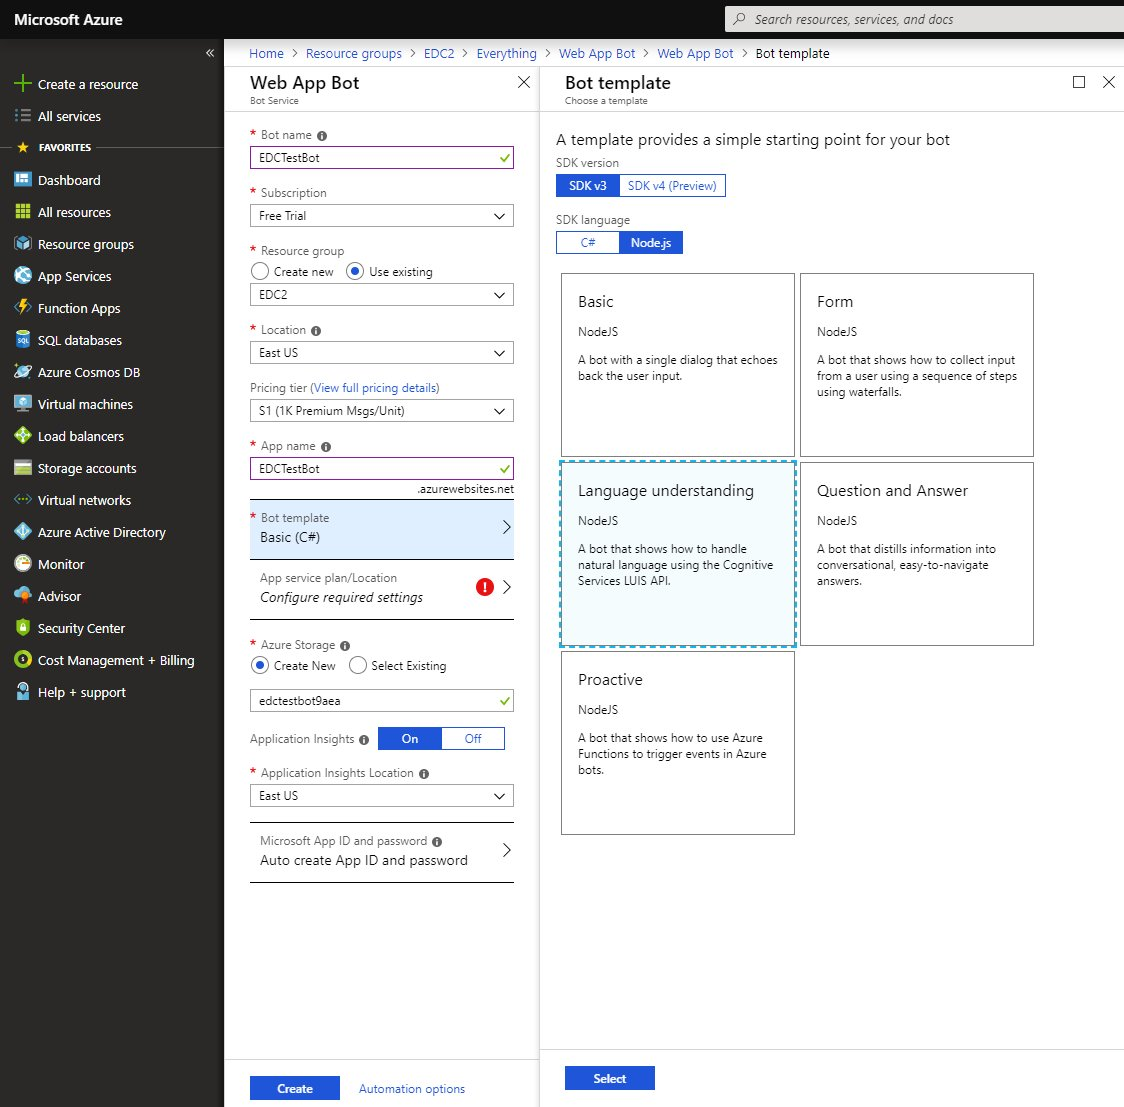
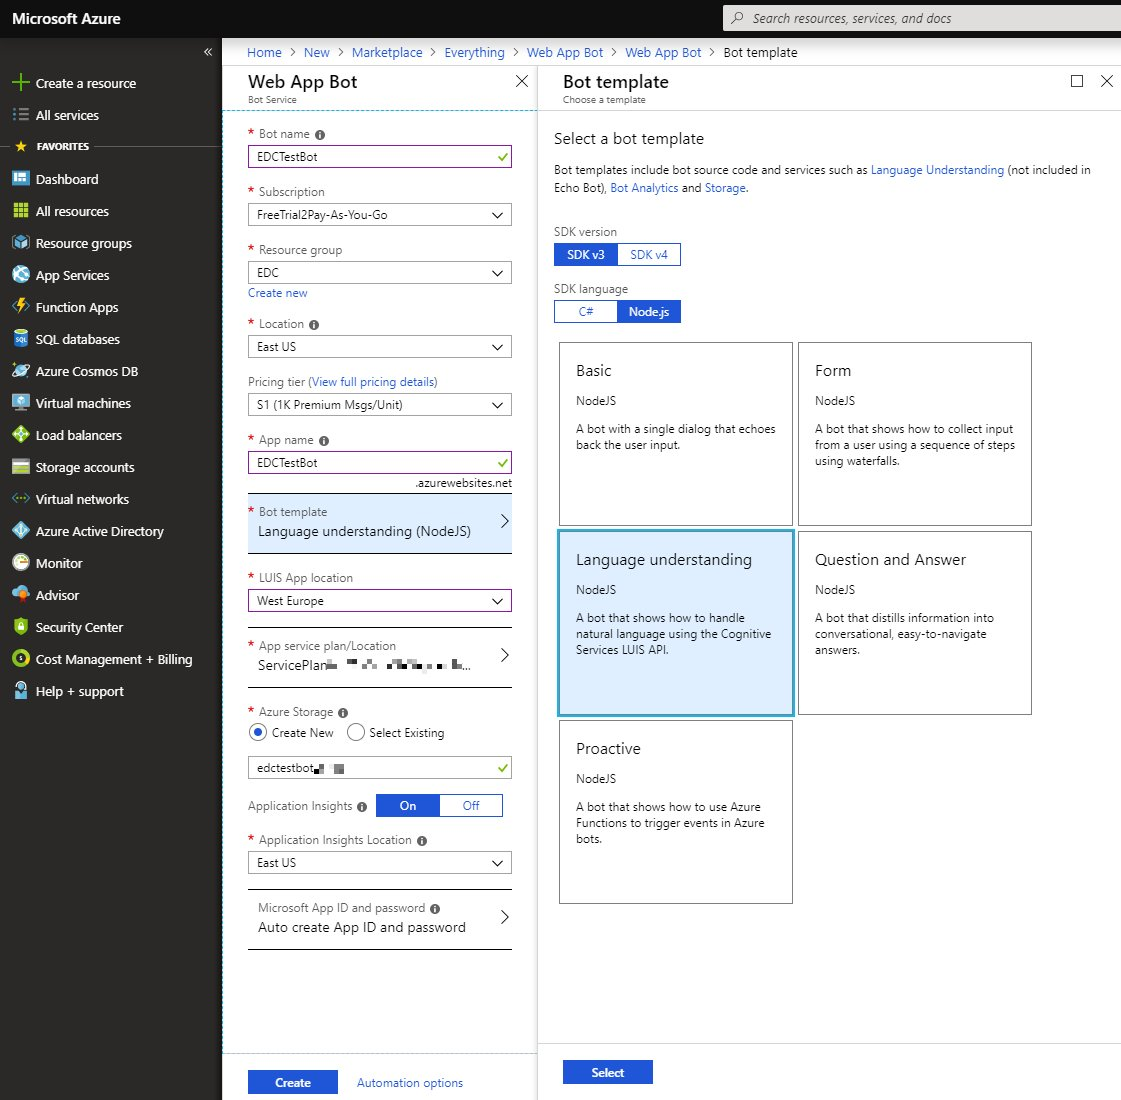
Added clarifications

diff --git a/HOL/HOL8/README.md b/HOL/HOL8/README.md
@@ -43,7 +43,7 @@ In this lab, you will learn how to create an Azure bot, make it available in Tea
 
     ![image](./media/2018-09-19-13-12-00.jpg)
 
-1. Select the `Web App Bot` from the results.
+1. Select the `Web App Bot` from the results and click `Create`.
 
 1. In the `Bot Service blade`, provide the required information, and click `Create`. This creates and deploys the bot service and LUIS app to Azure.
 
@@ -51,7 +51,7 @@ In this lab, you will learn how to create an Azure bot, make it available in Tea
 
     1. Select the `subscription`, `resource group`, `App service plan`, and `location`.
 
-    1. Select the `Language understanding (Node.js)` template for the `Bot template` field.
+    1. Select the `Language understanding (Node.js)` template for the `Bot template` field by switching to `SDK v3` and `Node.js` on the selection tab.
 
     1. Note that Azure will automatically create a storage and an App ID for your bot.
 
@@ -85,7 +85,7 @@ Your bot is now running and can recognize some basic intents. Please note that d
 
 ## Exercise 3: Modify the LUIS app<a name="ex3"></a>
 
-1. Log in to [www.luis.ai/applications](https://www.luis.ai/applications) using the same account you use to log in to Azure. Click on `My apps` if you are not redirected automatically. In the list of apps, find the app that begins with the name specified in `App name` in the Bot Service blade when you created the Bot Service.
+1. Log in to [www.luis.ai/applications](https://www.luis.ai/applications) using the same account you use to log in to Azure. Click on `My apps` if you are not redirected automatically. In the list of apps, find the app that begins with the name specified in `App name` in the Bot Service blade when you created the Bot Service. Note: If the LUIS page does not list your bot delete it and create a new bot.
 
     ![image](./media/2018-09-19-12-53-00.jpg)
 
@@ -150,7 +150,7 @@ Your LUIS app now distinguishes between more intents. Next you are going to modi
 
 ### Handle the Note.Create intent<a name="ex4b"></a>
 
-1. When the LUIS app recognizes a note creation intent the bot has to react by interacting with the student to gather all the necessary data. A new dialog will do this .Copy the following code and paste it at the end of `app.js`:
+1. When the LUIS app recognizes a note creation intent the bot has to react by interacting with the student to gather all the necessary data. A new dialog will do this. Copy the following code and paste it at the end of `app.js`:
 
     ```javascript
     // CreateNote dialog
@@ -530,19 +530,23 @@ Your LUIS app now distinguishes between more intents. Next you are going to modi
 
     ![image](./media/2018-09-20-10-47-00.jpg)
 
+1. Click `Save`.
+
+    ![image](./media/2018-11-21-13-22-00.jpg)
+
 1. Agree to the `Terms of Service` by checking the box and click `Agree`.
 
     ![image](./media/2018-09-20-10-48-00.jpg)
 
-1. You will be returned to the channel list where the new channel will be listed. Click the name of the channel.
+1. Return to the channel list (by selecting another entry on the menu and then `Channels`) where the new channel will be listed. Click the name of the channel.
 
     ![image](./media/2018-09-20-10-40-00.jpg)
 
-1. This will launch the bot in the teams client.
+1. This will launch the bot in the teams client. The bot is only previewing it has not been fully installed.
 
     ![image](./media/2018-09-20-11-20-00.jpg)
 
-1. Using the `Get bot embed codes` button you can create a link that can be used by users to integrate the bot in their Teams client.
+1. Using the `Get bot embed codes` button below the list of channels you can create a link that can be used by users to integrate the bot in their Teams client.
 
     ![image](./media/2018-09-20-11-29-00.jpg)
 
@@ -570,7 +574,7 @@ To create a manifest file that can be uploaded by the users:
 
     ![image](./media/2018-06-29-10-05-00.jpg)
 
-1. On the welcome screen click `Create a new app`.
+1. On the welcome screen of the `Manifest editor` tab click `Create a new app`.
 
     ![image](./media/2018-06-29-10-08-00.jpg)
 
@@ -590,11 +594,11 @@ To create a manifest file that can be uploaded by the users:
 
     ![image](./media/2018-09-20-11-57-00.jpg)
 
-1. Choose the `Existing bot` tab and enter the `Name` and `Microsoft App ID` of your bot. These have to match the values you looked up previously. Choose `Personal` as the `Scope` of the bot since it is targeted at individual students and not a certain team.
+1. Choose the `Existing bot` tab and enter the `Name` and `Microsoft App ID` of your bot. These have to match the values you looked up previously. If you are logged into Teams with the same account that created the bot in Azure you will have the option to select your bot from a drop-down list. Choose `Personal` as the `Scope` of the bot since it is targeted at individual students and not a certain team.
 
     ![image](./media/2018-09-20-12-05-00.jpg)
 
-1. Go to `Valid domains` next, enter the URL and click `Add`.
+1. Go to `Valid domains` next, enter the URL of your bot and click `Add`.
 
     ![image](./media/2018-09-20-12-08-00.jpg)
 
